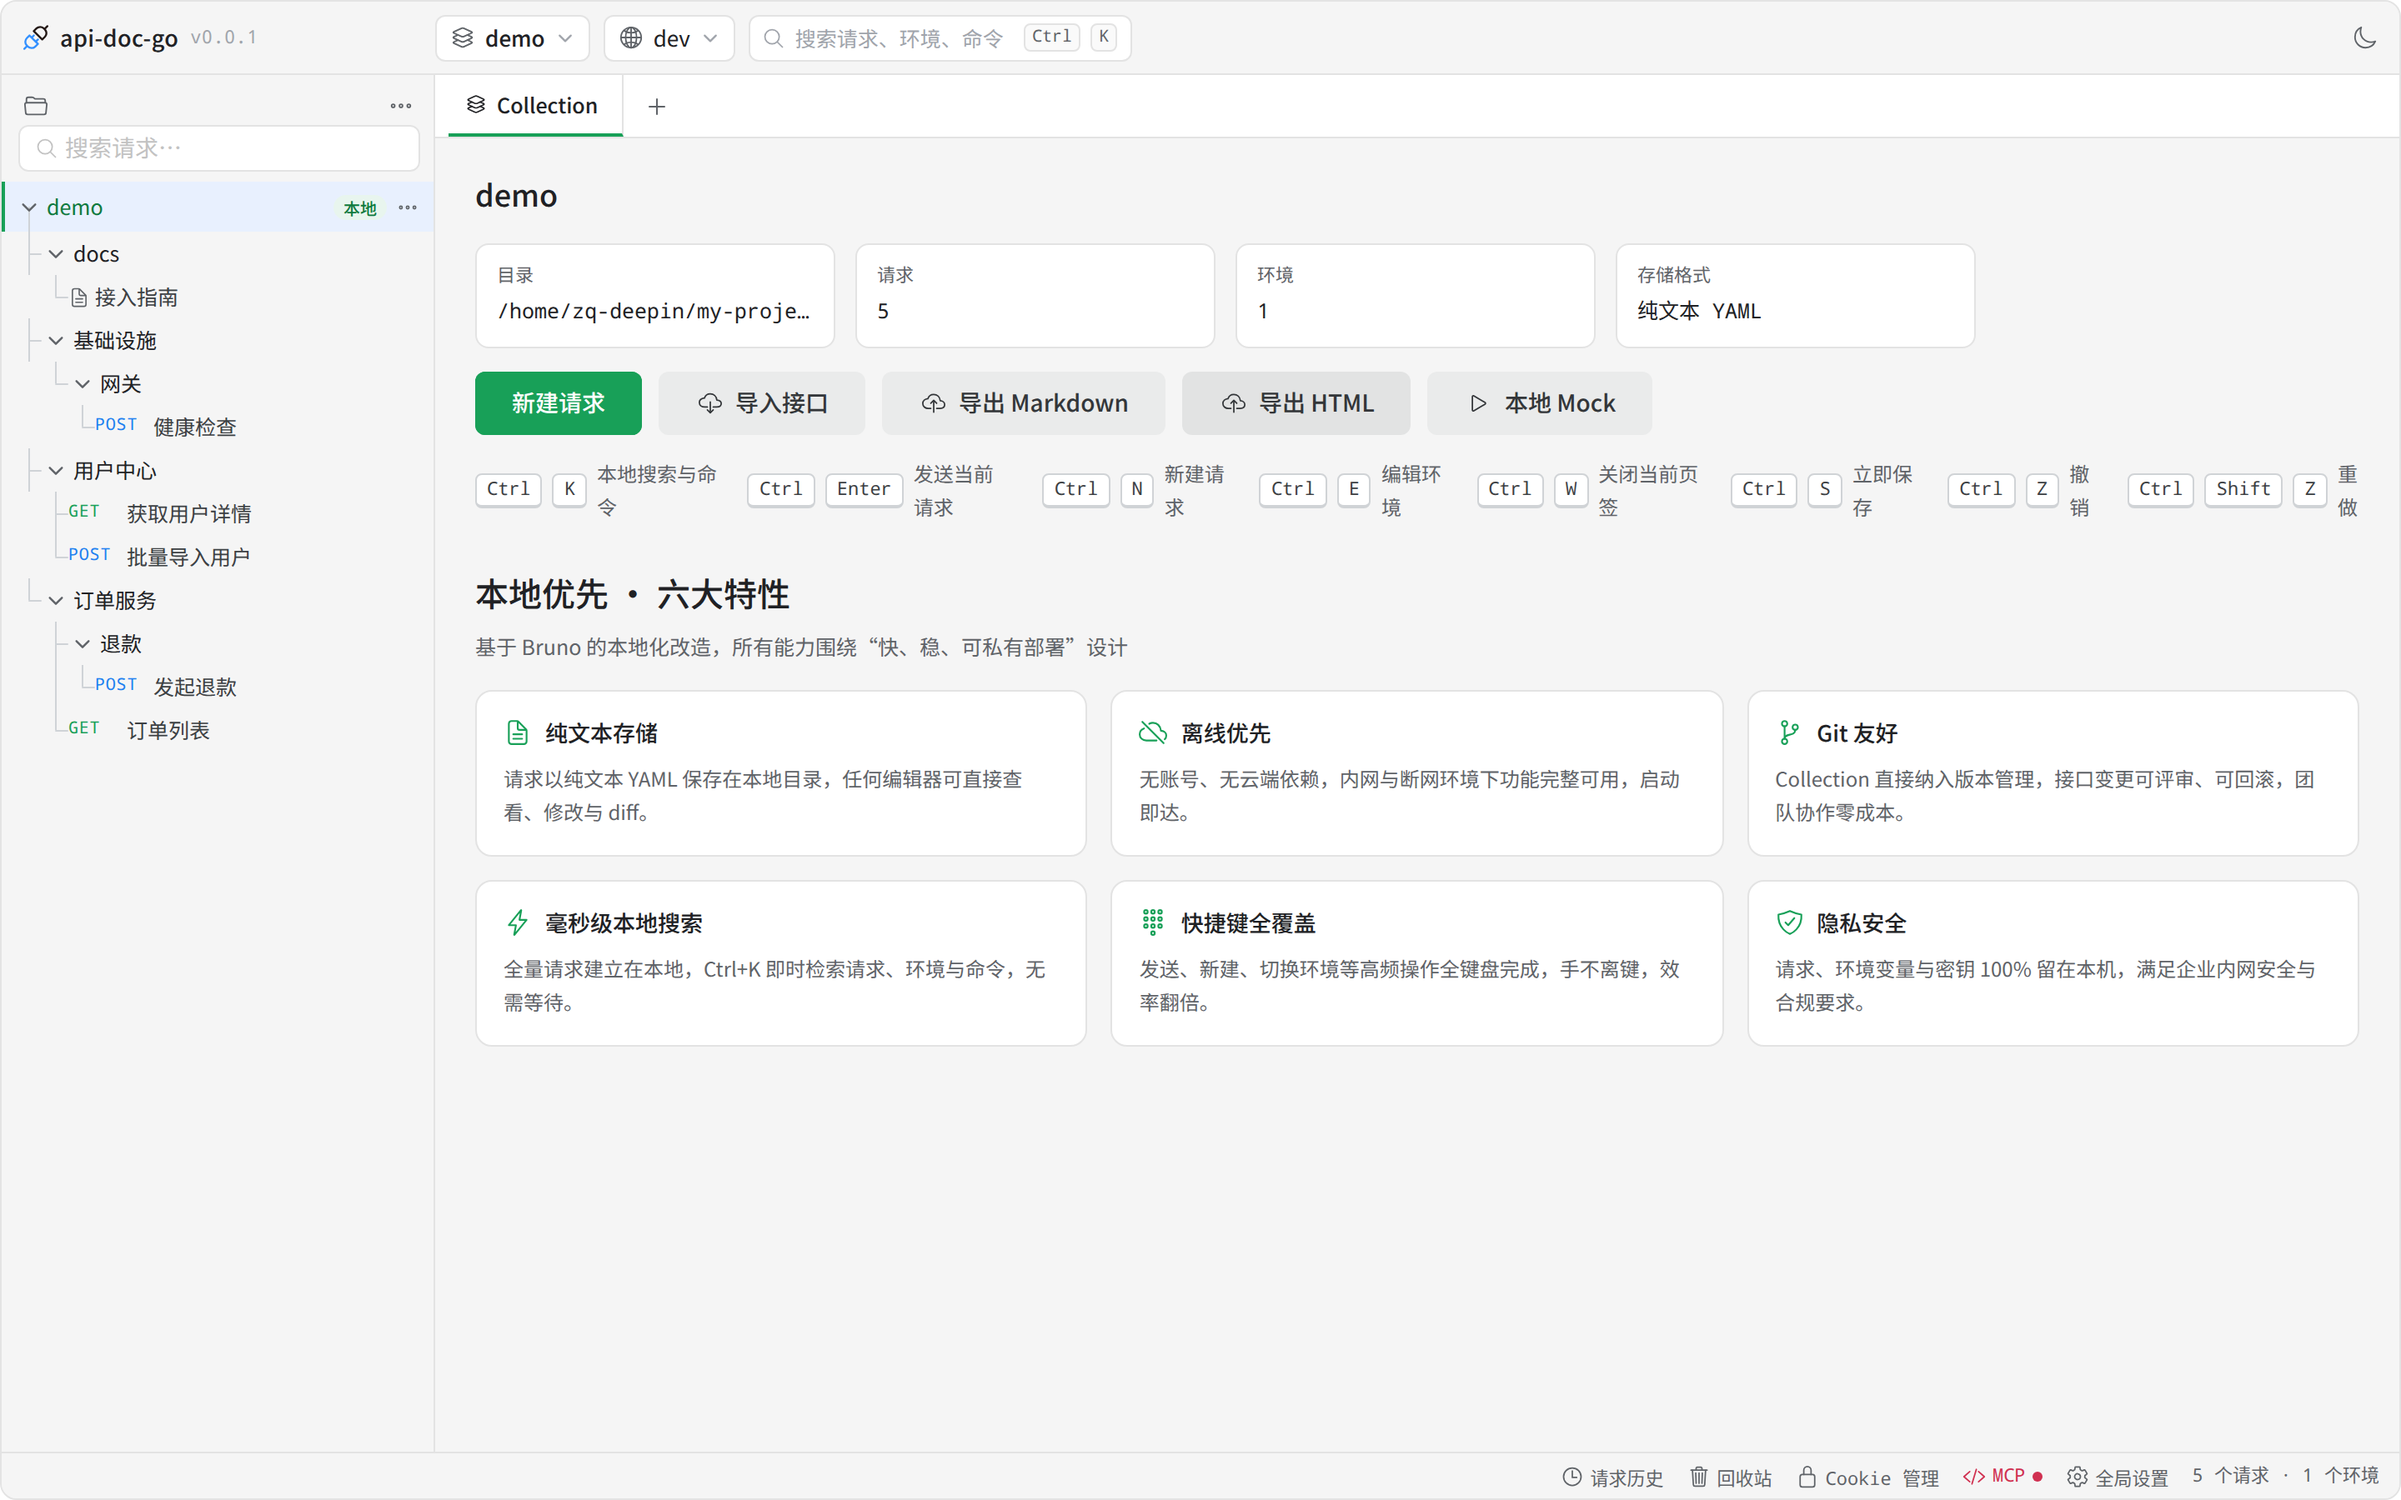
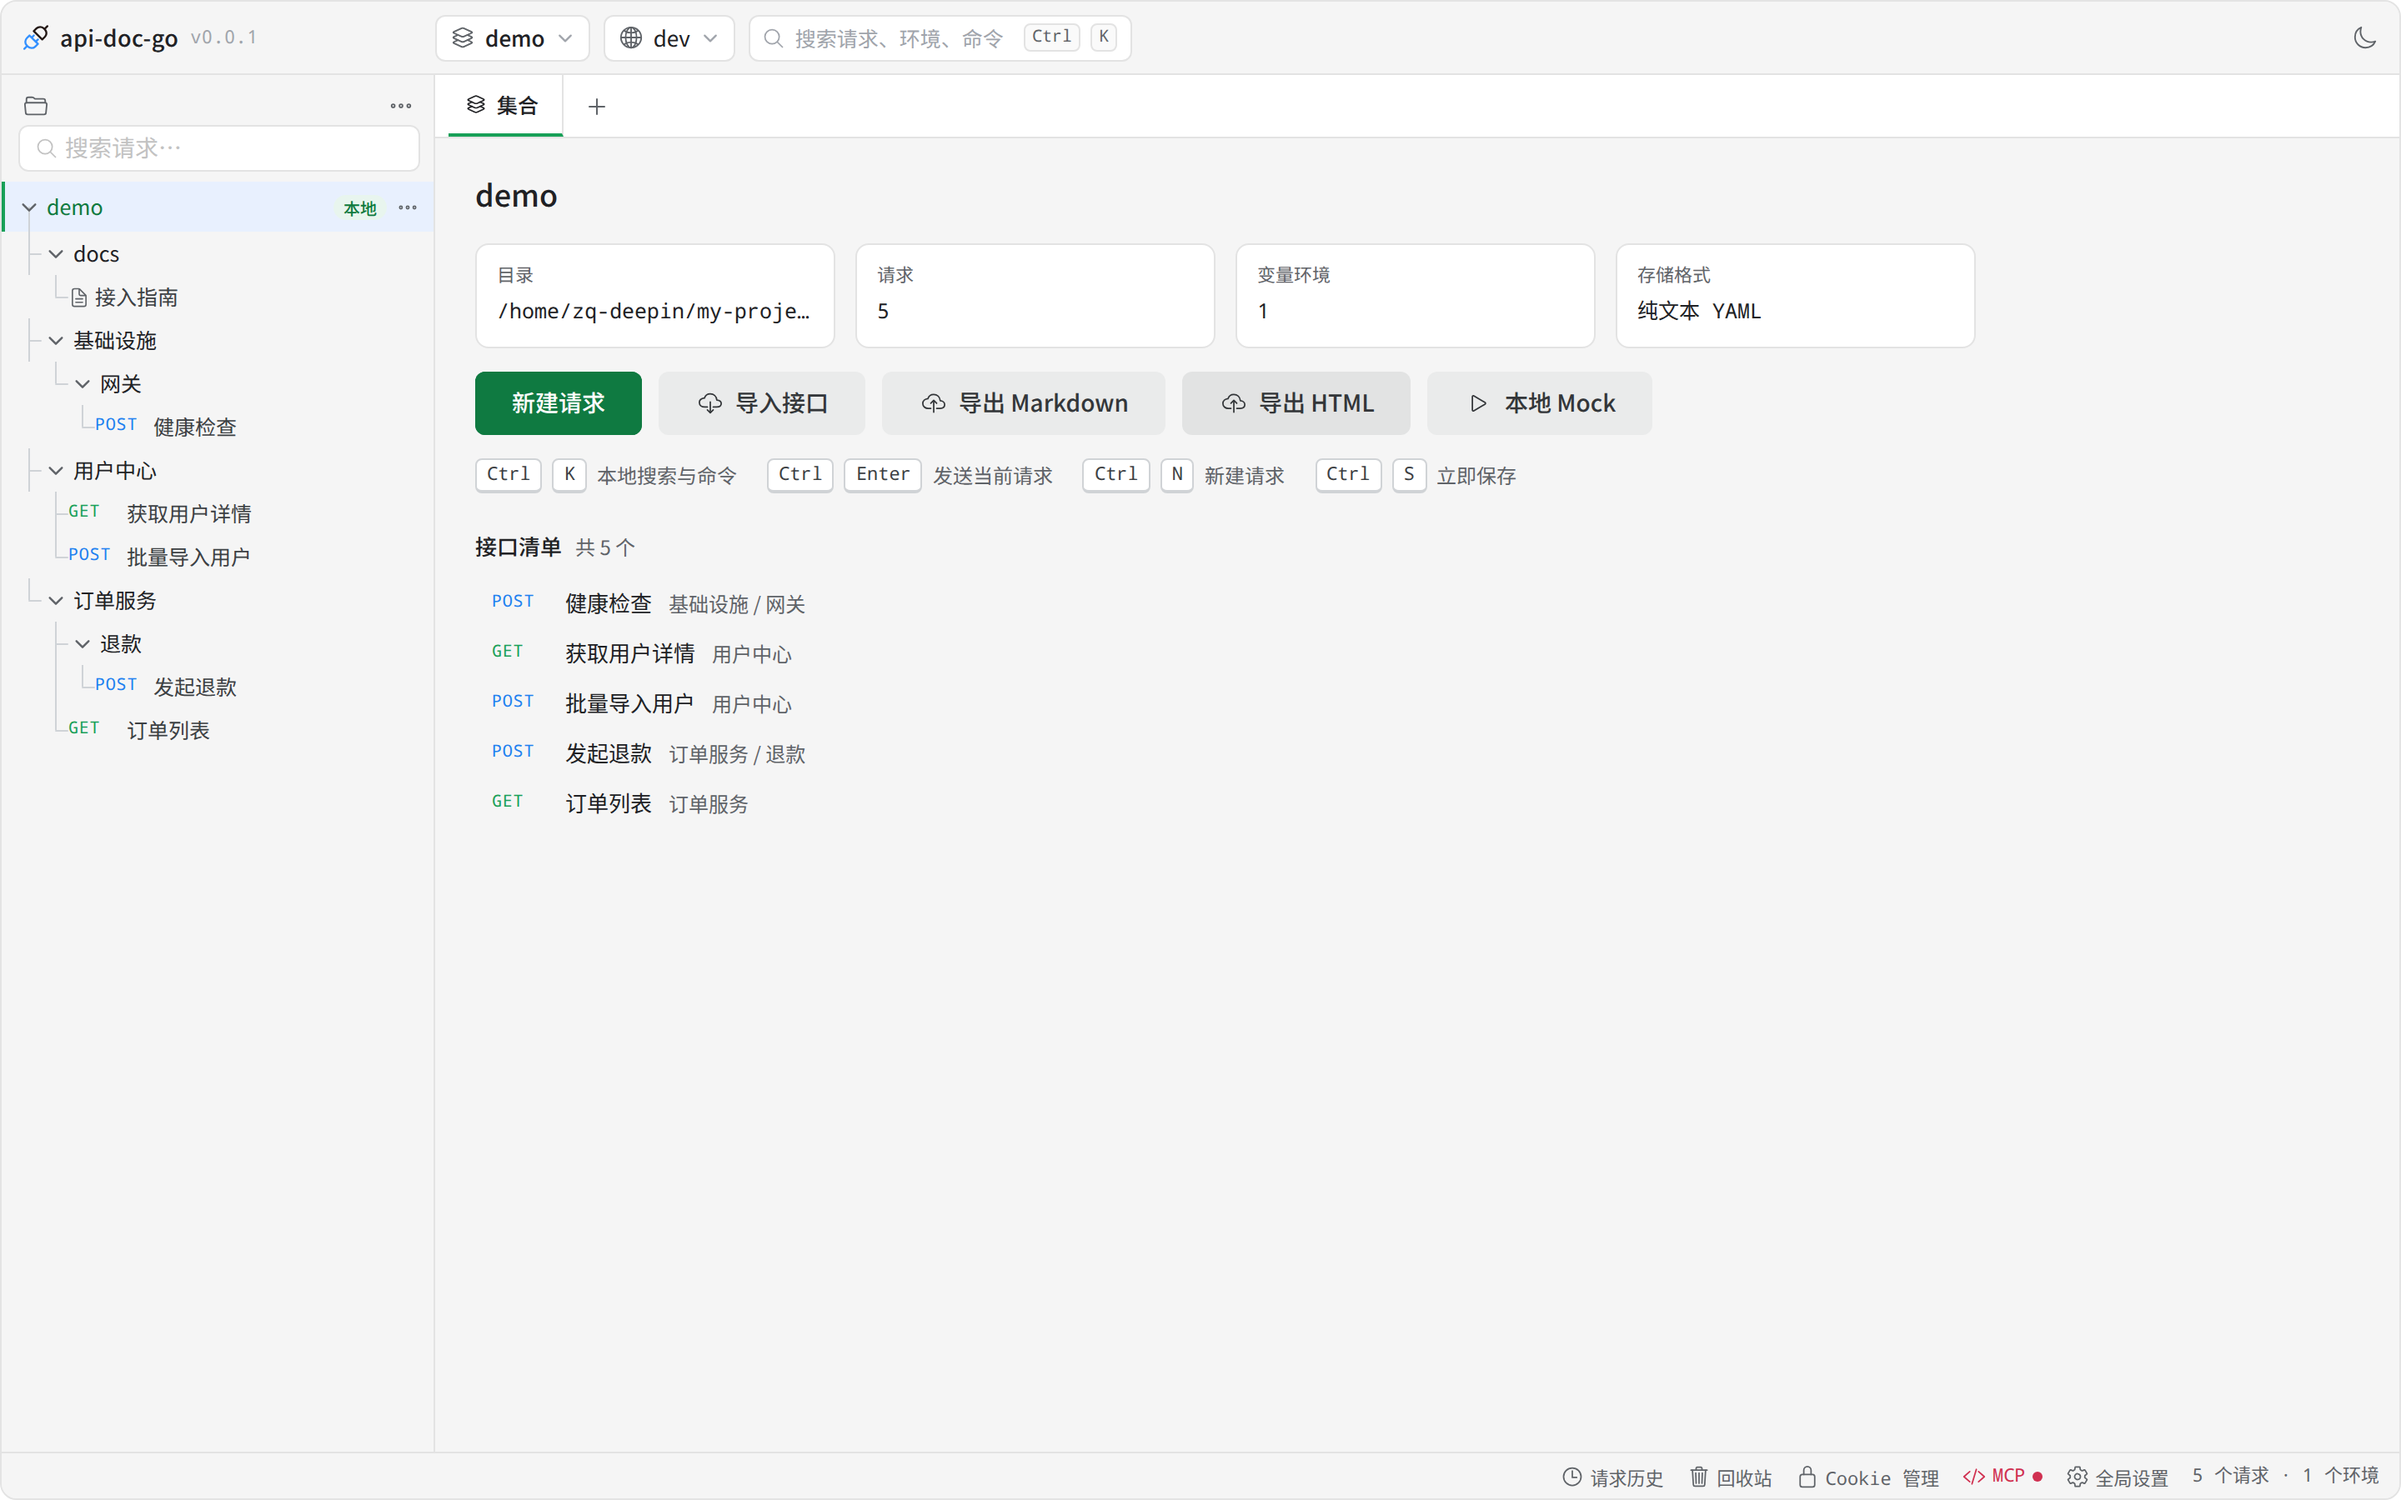
docs(ui-review): 补「本轮已落地」9 项与更新后的截图

diff --git a/doc/ui-review-2026-10-18/README.md b/doc/ui-review-2026-10-18/README.md
@@ -266,3 +266,27 @@ SHOT_BASE=http://localhost:5275/ SHOT_OUT=./screenshots node doc/ui-review-2026-
 | `--app-text-2` `#3c4043` / 白底 | 10.5 : 1 | 优秀 |
 
 > 结论：**正文与次要文字对比度没问题，问题集中在"主色当按钮底/当链接文字"这两处**，改一个令牌即可覆盖大部分场景。
+
+---
+
+## 7. 本轮已落地（2026-10-18 下午）
+
+按 §6 第 1、2 批先做了 9 项，均已提交并重拍截图（`screenshots/` 已更新）：
+
+| 条目 | 改动 | 位置 |
+| --- | --- | --- |
+| UI-01 | 概览页：有请求时把六张特性卡换成 **接口清单**（方法徽标 + 名称 + 分组路径，点击直接打开）；空集合才展示特性卡 | `Overview.vue` |
+| UI-02 | 快捷键图例 8 组 → 4 组一行（其余在 Ctrl+K 面板/按钮 tooltip） | `Overview.vue` |
+| UI-07 | 主色拆两个角色：品牌绿 `#18a058` 只留给 logo/装饰，**可交互主色** `#0f7a41`（白字 5.41:1 / hover 4.92:1 / pressed 6.61:1）；暗色保留亮绿，但主按钮文字改墨绿（5.96:1） | `lib/naiveTheme.ts` |
+| UI-08 | 目录卡片 hover 出现复制按钮（路径被截断时可完整取用） | `Overview.vue` |
+| UI-09 | 响应耗时 `0 ms` → `<1 ms` | `ResponsePanel.vue` |
+| UI-10 | 响应区主按钮「保存」→ **「保存响应」**，与页签「保存」（保存请求）区分 | `SaveDropdown.vue` + i18n |
+| UI-13 | 文档编辑器源码/预览 50/50 → **44/56**，表格不再断行 | `DocEditor.vue` |
+| UI-18 | 设置页三按钮 → **「取消 / 保存」**（勾选项本就即时生效） | `SettingsDialog.vue` |
+| UI-19 | 中文界面去掉 `Collection` / `Send`：页签「集合」、按钮「发送」、`Sending`→「发送中」 | i18n |
+
+**验证**：`vue-tsc --noEmit`、ESLint、`i18n:check`（KEYS_MATCH 702）通过；改动前后截图对比见
+`01-overview-and-tree.png`（首屏从"官网"变"接口清单"）、`04-doc-editor.png`（表格不再断行）、`06-settings.png`（两按钮）。
+
+**仍未做**（按计划留到后续）：UI-03 tab 分组与计数、UI-04/05 菜单与底栏分组、UI-06 响应空态精简、
+UI-11/12 行高与状态栏权重、UI-14 `docs/` 收敛为虚拟节点、UI-16 示例集合、UI-17 术语气泡、UI-20 统计口径。
